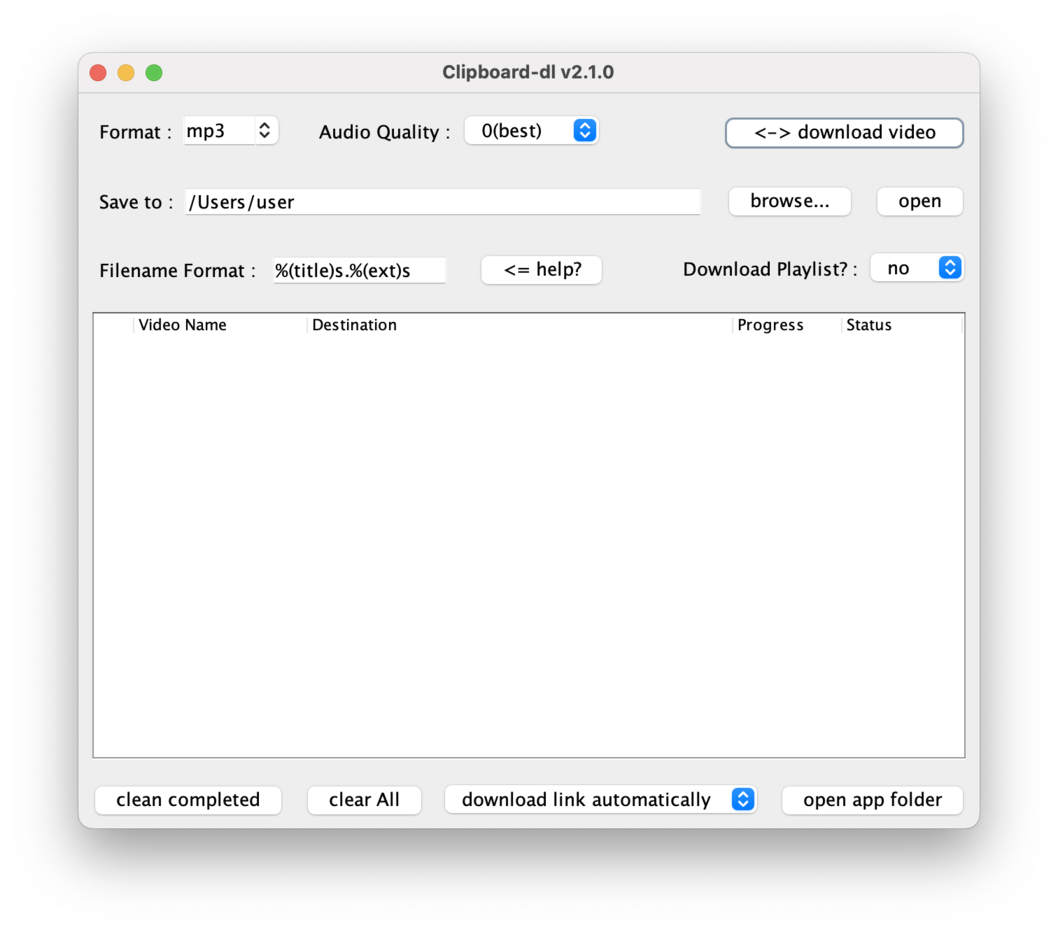
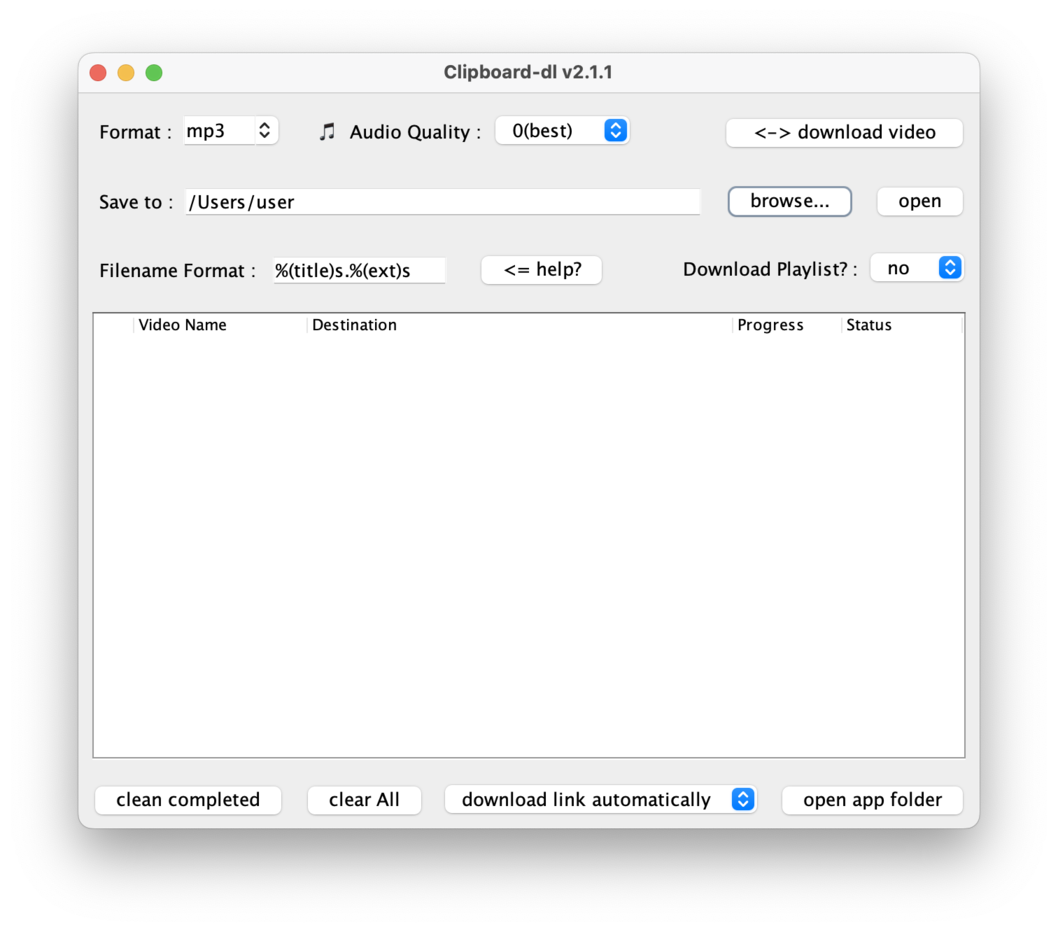
change to version 2.1.1

Changed region(s): [[0.6862, 0.1245, 0.9045, 0.2178], [0.2807, 0.1245, 0.5926, 0.1556], [0.4055, 0.0622, 0.5926, 0.0933]]

diff --git a/src/main/java/io/github/awidesky/YoutubeClipboardAutoDownloader/Main.java b/src/main/java/io/github/awidesky/YoutubeClipboardAutoDownloader/Main.java
@@ -64,7 +64,7 @@ public class Main {
 	private static volatile int taskNum = 0;
 	private static String[] ytdlpAdditionalOptions = new String[0];
 	
-	public static final String version = "v2.1.0";
+	public static final String version = "v2.1.1";
 
 	public static void main(String[] args) {
 		
